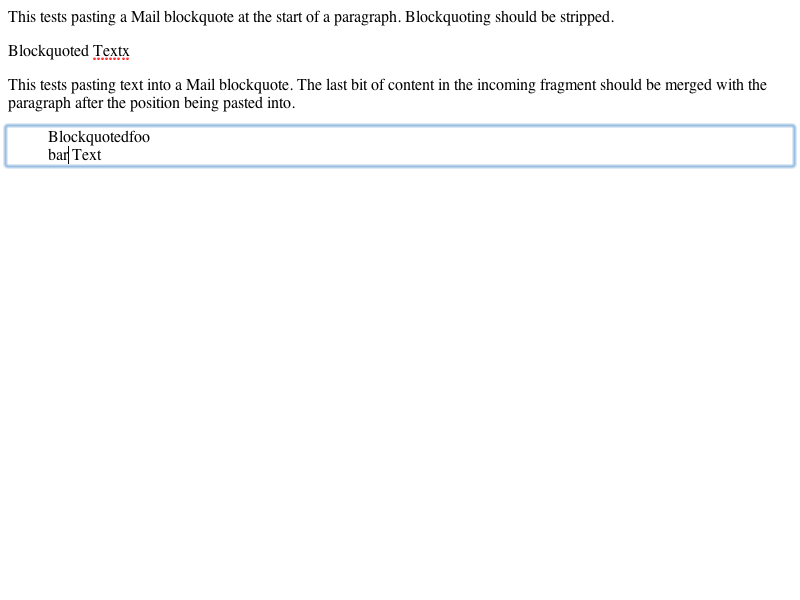
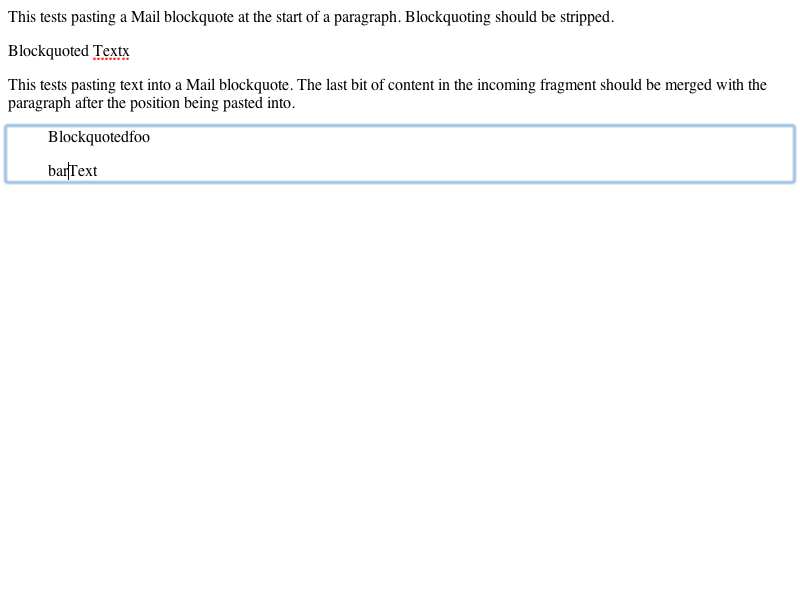
WebCore:
2008-11-10  Justin Garcia  <justin.garcia@apple.com>

        Reviewed by Beth Dakin.

        <rdar://problem/4037481> REGRESSION (Mail): pasting quoted text
        into quoted text yields double-quoting

        Don't nest inserted content in Mail blockquotes.  Perform a
        BreakBlockquoteCommand if we're in
        one and insert the incoming fragment between the split blockquotes.

        * editing/ReplaceSelectionCommand.cpp:
        (WebCore::ReplaceSelectionCommand::shouldMerge): Renamed from ->
        source and to -> destination.
        (WebCore::ReplaceSelectionCommand::doApply):

LayoutTests:

2008-11-10  Beth Dakin  <bdakin@apple.com>

        Rubber stamped by Justin Garcia.

        New tests for <rdar://problem/4037481> REGRESSION (Mail): pasting
        quoted text into quoted text yields double-quoting
        * editing/pasteboard/paste-blockquote-into-blockquote-2.html:
        Added.
        * editing/pasteboard/paste-blockquote-into-blockquote.html: Added.
        * platform/mac/editing/pasteboard/paste-blockquote-into-
        blockquote-2-expected.checksum: Added.
        * platform/mac/editing/pasteboard/paste-blockquote-into-
        blockquote-2-expected.png: Added.
        * platform/mac/editing/pasteboard/paste-blockquote-into-
        blockquote-2-expected.txt: Added.
        * platform/mac/editing/pasteboard/paste-blockquote-into-blockquote-
        expected.checksum: Added.
[…]

Changed region(s): [[0.0, 0.24, 1.0, 0.33]]

diff --git a/LayoutTests/editing/pasteboard/paste-blockquote-into-blockquote-2.html b/LayoutTests/editing/pasteboard/paste-blockquote-into-blockquote-2.html
@@ -1,0 +1,19 @@
+<style>
+blockquote {
+    color: blue;
+    border-left: 2px solid blue;
+    margin: 0px;
+    padding: 0 0 0 20px;
+}
+</style>
+
+<p>This tests pasting a nested blockquote into a blockquote. The first line below should be singly-blockquoted, and the second should be doubly-quoted.</p>
+<div contenteditable="true"><blockquote type='cite' id="block">One</blockquote></div>
+
+<script>
+var sel = window.getSelection();
+var block = document.getElementById("block");
+
+sel.setPosition(block, 3);
+document.execCommand("InsertHTML", false, "<span><blockquote type='cite'><blockquote type='cite'><div>Two</div><div>Three</div></blockquote></blockquote></span>");
+</script>

diff --git a/LayoutTests/editing/pasteboard/paste-blockquote-into-blockquote.html b/LayoutTests/editing/pasteboard/paste-blockquote-into-blockquote.html
@@ -1,0 +1,25 @@
+<html>
+<head>
+<style>
+blockquote {
+    color: blue;
+    border-left: 2px solid blue;
+    margin: 0px;
+    padding: 0 0 0 20px;
+}
+</style>
+</head>
+
+<body>
+<p>This tests pasting a blockquote into a blockquote. Nothing below should be double-blockquoted.</p>
+<div contenteditable="true"><blockquote type='cite' id="block">One</blockquote></div>
+
+<script>
+var sel = window.getSelection();
+var block = document.getElementById("block");
+
+sel.setPosition(block, 3);
+document.execCommand("InsertHTML", false, "<span><blockquote type='cite'><div>Two</div><div>Three</div></blockquote></span>");
+</script>
+</body>
+</html>

diff --git a/WebCore/editing/ReplaceSelectionCommand.cpp b/WebCore/editing/ReplaceSelectionCommand.cpp
@@ -28,6 +28,7 @@
 
 #include "ApplyStyleCommand.h"
 #include "BeforeTextInsertedEvent.h"
+#include "BreakBlockquoteCommand.h"
 #include "CSSComputedStyleDeclaration.h"
 #include "CSSProperty.h"
 #include "CSSPropertyNames.h"
@@ -385,21 +386,21 @@ void ReplaceSelectionCommand::removeNodeAndPruneAncestors(Node* node)
         m_firstNodeInserted = m_lastLeafInserted && m_lastLeafInserted->inDocument() ? afterFirst : 0;
 }
 
-bool ReplaceSelectionCommand::shouldMerge(const VisiblePosition& from, const VisiblePosition& to)
+bool ReplaceSelectionCommand::shouldMerge(const VisiblePosition& source, const VisiblePosition& destination)
 {
-    if (from.isNull() || to.isNull())
+    if (source.isNull() || destination.isNull())
         return false;
         
-    Node* fromNode = from.deepEquivalent().node();
-    Node* toNode = to.deepEquivalent().node();
-    Node* fromNodeBlock = enclosingBlock(fromNode);
-    return !enclosingNodeOfType(from.deepEquivalent(), &isMailPasteAsQuotationNode) &&
-           fromNodeBlock && (!fromNodeBlock->hasTagName(blockquoteTag) || isMailBlockquote(fromNodeBlock))  &&
-           enclosingListChild(fromNode) == enclosingListChild(toNode) &&
-           enclosingTableCell(from.deepEquivalent()) == enclosingTableCell(from.deepEquivalent()) &&
+    Node* sourceNode = source.deepEquivalent().node();
+    Node* destinationNode = destination.deepEquivalent().node();
+    Node* sourceBlock = enclosingBlock(sourceNode);
+    return !enclosingNodeOfType(source.deepEquivalent(), &isMailPasteAsQuotationNode) &&
+           sourceBlock && (!sourceBlock->hasTagName(blockquoteTag) || isMailBlockquote(sourceBlock))  &&
+           enclosingListChild(sourceBlock) == enclosingListChild(destinationNode) &&
+           enclosingTableCell(source.deepEquivalent()) == enclosingTableCell(destination.deepEquivalent()) &&
            // Don't merge to or from a position before or after a block because it would
            // be a no-op and cause infinite recursion.
-           !isBlock(fromNode) && !isBlock(toNode);
+           !isBlock(sourceNode) && !isBlock(destinationNode);
 }
 
 // Style rules that match just inserted elements could change their appearance, like
@@ -685,15 +686,19 @@ void ReplaceSelectionCommand::doApply()
         startBlock && startBlock->renderer() && startBlock->renderer()->isListItem() ||
         selectionIsPlainText)
         m_preventNesting = false;
-    
+        
     Position insertionPos = selection.start();
+    
+    bool startIsInsideMailBlockquote = nearestMailBlockquote(insertionPos.node());
     
     if (selection.isRange()) {
         // When the end of the selection being pasted into is at the end of a paragraph, and that selection
         // spans multiple blocks, not merging may leave an empty line.
         // When the start of the selection being pasted into is at the start of a block, not merging 
         // will leave hanging block(s).
-        bool mergeBlocksAfterDelete = isEndOfParagraph(visibleEnd) || isStartOfBlock(visibleStart);
+        // Merge blocks if the start of the selection was in a Mail blockquote, since we handle 
+        // that case specially to prevent nesting.
+        bool mergeBlocksAfterDelete = startIsInsideMailBlockquote || isEndOfParagraph(visibleEnd) || isStartOfBlock(visibleStart);
         // FIXME: We should only expand to include fully selected special elements if we are copying a 
         // selection and pasting it on top of itself.
         deleteSelection(false, mergeBlocksAfterDelete, true, false);
@@ -718,12 +723,25 @@ void ReplaceSelectionCommand::doApply()
         // We split the current paragraph in two to avoid nesting the blocks from the fragment inside the current block.
         // For example paste <div>foo</div><div>bar</div><div>baz</div> into <div>x^x</div>, where ^ is the caret.  
         // As long as the  div styles are the same, visually you'd expect: <div>xbar</div><div>bar</div><div>bazx</div>, 
-        // not <div>xbar<div>bar</div><div>bazx</div></div>
-        if (m_preventNesting && !isEndOfParagraph(visibleStart) && !isStartOfParagraph(visibleStart)) {
+        // not <div>xbar<div>bar</div><div>bazx</div></div>.
+        // Don't do this if the selection started in a Mail blockquote, we prevent nesting in that case separately, below.
+        if (m_preventNesting && !startIsInsideMailBlockquote && !isEndOfParagraph(visibleStart) && !isStartOfParagraph(visibleStart)) {
             insertParagraphSeparator();
             setEndingSelection(endingSelection().visibleStart().previous());
         }
         insertionPos = endingSelection().start();
+    }
+    
+    if (m_preventNesting && startIsInsideMailBlockquote) {
+        // We don't want any of the pasted content to end up nested in a Mail blockquote, so first break
+        // out of any surrounding Mail blockquotes.
+        applyCommandToComposite(BreakBlockquoteCommand::create(document()));
+        // This will leave a br between the split.
+        Node* br = endingSelection().start().node();
+        ASSERT(br->hasTagName(brTag));
+        // Insert content between the two blockquotes, but remove the br (since it was just a placeholder).
+        insertionPos = positionBeforeNode(br);
+        removeNode(br);
     }
     
     // Inserting content could cause whitespace to collapse, e.g. inserting <div>foo</div> into hello^ world.
@@ -740,7 +758,8 @@ void ReplaceSelectionCommand::doApply()
     startBlock = enclosingBlock(insertionPos.node());
     
     // Adjust insertionPos to prevent nesting.
-    if (m_preventNesting && startBlock) {
+    // If the start was in a Mail blockquote, we will have already handled adjusting insertionPos above.
+    if (m_preventNesting && startBlock && !startIsInsideMailBlockquote) {
         ASSERT(startBlock != currentRoot);
         VisiblePosition visibleInsertionPos(insertionPos);
         if (isEndOfBlock(visibleInsertionPos) && !(isStartOfBlock(visibleInsertionPos) && fragment.hasInterchangeNewlineAtEnd()))
